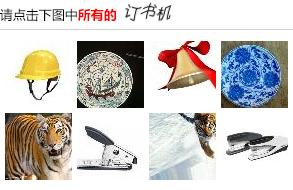
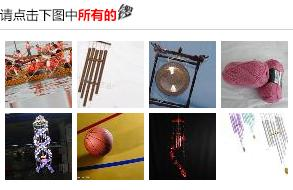
click login button

diff --git a/train/train/train.py b/train/train/train.py
@@ -25,10 +25,8 @@ class Train:
 
     def get_pic(self):
         try:
-            WebDriverWait(self.driver, 10).until(EC.visibility_of_element_located((By.CSS_SELECTOR, '#J-loginImg')))
-
-            # 获取验证码
-            return self.driver.find_element_by_css_selector("#J-loginImg").get_attribute('src')
+            element = WebDriverWait(self.driver, 10).until(EC.visibility_of_element_located((By.CSS_SELECTOR, '#J-loginImg')))
+            return element.get_attribute('src')
         except Exception as e:
             print(f"获取验证码失败:{e}")
             raise e
@@ -61,14 +59,14 @@ class Train:
             print(e)
             raise e
 
-    def click_img(self, arr):
+    def click_pic(self, arr):
         try:
             element = self.driver.find_element_by_css_selector("#J-loginImgArea")
             action = ActionChains(self.driver)
             for item in arr:
-                action.move_to_element_with_offset(element, int(item[0]),
-                                                   int(item[1])).click().perform()
-                sleep(1)
+                action.move_to_element_with_offset(element, int(item[0]) + randint(5, 10),
+                                                   int(item[1]) + randint(5, 10)).click().perform()
+                sleep(randint(1, 3))
         except Exception as e:
             print(e)
             raise e
@@ -109,7 +107,7 @@ class Train:
         # 输入账号密码
         train.enter_account(email, password)
         # 点击验证码
-        train.click_img(arr)
+        train.click_pic(arr)
         # 登录
         train.login()
 
